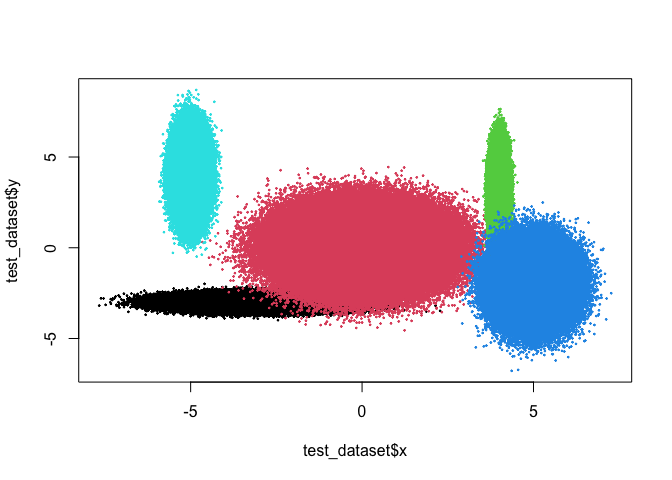
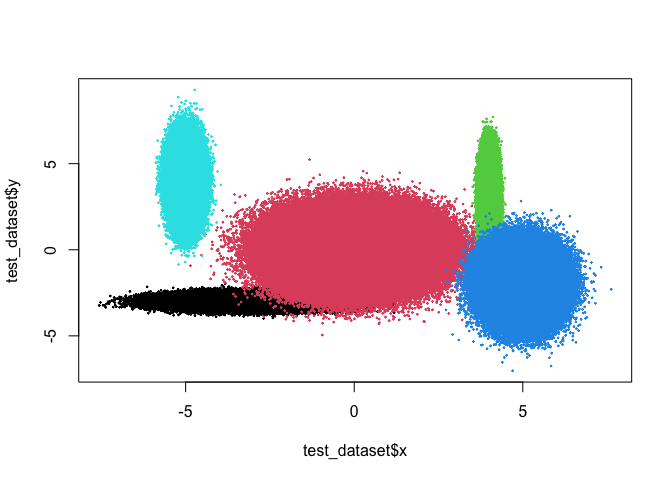
Minor edit

diff --git a/README.md b/README.md
@@ -110,14 +110,16 @@ clustering_result <-
     centers = 5,
     iter.max = 5000,
   )
-#> Committee Member: 1(1) 2(1) 3(1) 4(1) 5(1) 6(1) 7(1) 8(1) 9(1) 10(1)
+#> Committee Member: 1(1) 2(1) 3(1) 4(1) 5(1) 6(1) 7(1) 8(1) 9(1)
+#> Warning: Quick-TRANSfer stage steps exceeded maximum (= 1500000)
+#>  10(1)
 #> Computing Hierarchical Clustering
 
 end_time <- Sys.time()
 
 # Check time lapsed
 end_time - start_time
-#> Time difference of 3.014737 secs
+#> Time difference of 2.874979 secs
 
 # Save results
 test_dataset["sbclust"] <- clustering_result$cluster
@@ -150,11 +152,11 @@ centres_mean
 #> [5,]   -5    4
 clustering_result$centers
 #>             [,1]        [,2]
-#> [1,] -2.91262739 -2.97283236
-#> [2,]  4.99138221 -2.02138599
-#> [3,]  3.99526861  2.99385082
-#> [4,]  0.02215695  0.06394518
-#> [5,] -4.99873779  4.00133887
+#> [1,]  4.00117785  2.95504323
+#> [2,]  4.99936706 -2.06528615
+#> [3,] -2.97749694 -2.98535817
+#> [4,]  0.02980787  0.02093155
+#> [5,] -4.99781581  3.98430610
 ```
 
 Run the `e1071::bclust` algorithm for comparison.
@@ -196,7 +198,7 @@ e1071_bclust_end_time <- Sys.time()
 
 # Check time lapsed
 e1071_bclust_end_time - e1071_bclust_start_time
-#> Time difference of 44.14835 secs
+#> Time difference of 48.94187 secs
 
 # Save results
 test_dataset["e1071_bclust"] <- e1071_bclust_result$cluster
@@ -228,14 +230,14 @@ centres_mean
 #> [4,]    5   -2
 #> [5,]   -5    4
 e1071_bclust_result$centers
-#>             [,1]         [,2]
-#> [1,]  0.01407398 -0.003499294
-#> [2,]  4.98238362 -2.005154326
-#> [3,]  3.98914885  2.990380893
-#> [4,] -4.99598621  3.958669306
-#> [5,] -2.92697971 -2.972131964
+#>             [,1]        [,2]
+#> [1,]  0.01850614 -0.05947054
+#> [2,] -3.00438862 -2.98098877
+#> [3,] -4.99873225  3.99163683
+#> [4,]  4.00214013  3.02187993
+#> [5,]  4.98028792 -1.98272758
 ```
 
 The examples above illustrates how, when working with large datasets,
-`sbclust` can achieve similar results as `e1071::bclus` in a fraction
-(6.83%) of the time.
+`sbclust` can achieve similar results as `e1071::bclust` in a fraction
+(5.87%) of the time.
